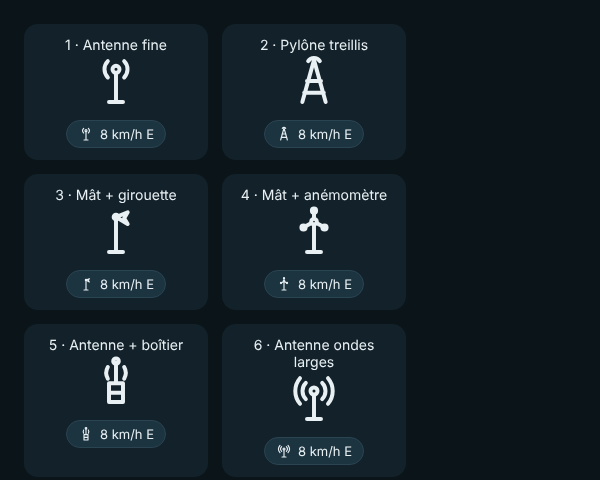
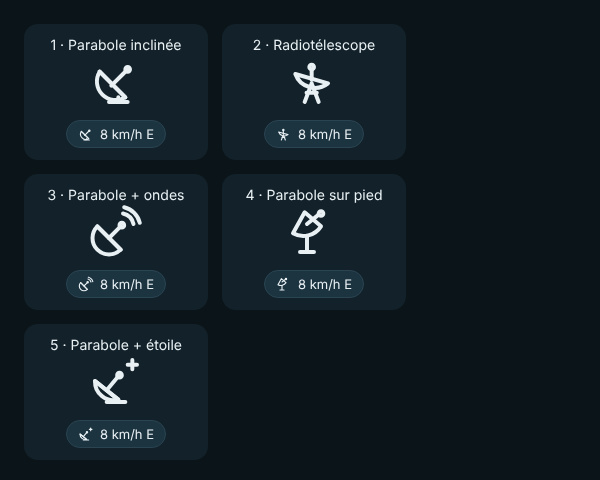
Maquette : icônes station en parabole
Claude-Session: https://claude.ai/code/session_01SmdS3QR8SGgih4tjLPucxr

diff --git a/docs/maquettes/propositions-v3/icones-station.html b/docs/maquettes/propositions-v3/icones-station.html
@@ -1,2 +1,2 @@
 <!doctype html><meta charset="utf-8"><title>Icônes station</title><style>body{background:#0b1519;color:#e8f0f3;font:14px system-ui;display:flex;flex-wrap:wrap;gap:14px;padding:16px;width:560px}
-.c{background:#13222a;border-radius:14px;padding:12px;width:160px;text-align:center}.pill{display:inline-flex;gap:6px;align-items:center;background:#1c3340;border:1px solid #2a4452;border-radius:99px;padding:5px 11px;font-size:13px;margin-top:8px}</style><div class="c"><div>1 · Antenne fine</div><svg width="56" height="56" viewBox="0 0 24 24" fill="none" stroke="currentColor" stroke-width="1.7" stroke-linecap="round" stroke-linejoin="round"><path d="M12 9v12M9 21h6"/><circle cx="12" cy="7" r="1.5"/><path d="M8.500 3.500a5 5 0 0 0 0 7M15.500 3.500a5 5 0 0 1 0 7"/></svg><br><span class="pill"><svg width="16" height="16" viewBox="0 0 24 24" fill="none" stroke="currentColor" stroke-width="1.7" stroke-linecap="round" stroke-linejoin="round"><path d="M12 9v12M9 21h6"/><circle cx="12" cy="7" r="1.5"/><path d="M8.500 3.500a5 5 0 0 0 0 7M15.500 3.500a5 5 0 0 1 0 7"/></svg>8 km/h E</span></div><div class="c"><div>2 · Pylône treillis</div><svg width="56" height="56" viewBox="0 0 24 24" fill="none" stroke="currentColor" stroke-width="1.7" stroke-linecap="round" stroke-linejoin="round"><path d="M12 3l-5 18M12 3l5 18M9 12h6M7.800 17h8.400M12 3v-0"/><path d="M9.500 3.500a3 3 0 0 1 5 0"/></svg><br><span class="pill"><svg width="16" height="16" viewBox="0 0 24 24" fill="none" stroke="currentColor" stroke-width="1.7" stroke-linecap="round" stroke-linejoin="round"><path d="M12 3l-5 18M12 3l5 18M9 12h6M7.800 17h8.400M12 3v-0"/><path d="M9.500 3.500a3 3 0 0 1 5 0"/></svg>8 km/h E</span></div><div class="c"><div>3 · Mât + girouette</div><svg width="56" height="56" viewBox="0 0 24 24" fill="none" stroke="currentColor" stroke-width="1.7" stroke-linecap="round" stroke-linejoin="round"><path d="M12 21V6M9 21h6"/><path d="M12 6l5-2-1.500 2.500L17 9z"/><circle cx="12" cy="6" r="1"/></svg><br><span class="pill"><svg width="16" height="16" viewBox="0 0 24 24" fill="none" stroke="currentColor" stroke-width="1.7" stroke-linecap="round" stroke-linejoin="round"><path d="M12 21V6M9 21h6"/><path d="M12 6l5-2-1.500 2.500L17 9z"/><circle cx="12" cy="6" r="1"/></svg>8 km/h E</span></div><div class="c"><div>4 · Mât + anémomètre</div><svg width="56" height="56" viewBox="0 0 24 24" fill="none" stroke="currentColor" stroke-width="1.7" stroke-linecap="round" stroke-linejoin="round"><path d="M12 21V10M9 21h6"/><circle cx="12" cy="8" r="1.200"/><path d="M12 6.800V4M10.900 8.600L8.400 10M13.100 8.600l2.500 1.400"/><circle cx="12" cy="3.300" r=".9"/><circle cx="7.500" cy="10.500" r=".9"/><circle cx="16.500" cy="10.500" r=".9"/></svg><br><span class="pill"><svg width="16" height="16" viewBox="0 0 24 24" fill="none" stroke="currentColor" stroke-width="1.7" stroke-linecap="round" stroke-linejoin="round"><path d="M12 21V10M9 21h6"/><circle cx="12" cy="8" r="1.200"/><path d="M12 6.800V4M10.900 8.600L8.400 10M13.100 8.600l2.500 1.400"/><circle cx="12" cy="3.300" r=".9"/><circle cx="7.500" cy="10.500" r=".9"/><circle cx="16.500" cy="10.500" r=".9"/></svg>8 km/h E</span></div><div class="c"><div>5 · Antenne + boîtier</div><svg width="56" height="56" viewBox="0 0 24 24" fill="none" stroke="currentColor" stroke-width="1.7" stroke-linecap="round" stroke-linejoin="round"><path d="M12 4v9M9 21V13h6v8zM9 17h6"/><circle cx="12" cy="3.500" r="1.200"/><path d="M8.500 6a5 5 0 0 0 0 5M15.500 6a5 5 0 0 1 0 5"/></svg><br><span class="pill"><svg width="16" height="16" viewBox="0 0 24 24" fill="none" stroke="currentColor" stroke-width="1.7" stroke-linecap="round" stroke-linejoin="round"><path d="M12 4v9M9 21V13h6v8zM9 17h6"/><circle cx="12" cy="3.500" r="1.200"/><path d="M8.500 6a5 5 0 0 0 0 5M15.500 6a5 5 0 0 1 0 5"/></svg>8 km/h E</span></div><div class="c"><div>6 · Antenne ondes larges</div><svg width="56" height="56" viewBox="0 0 24 24" fill="none" stroke="currentColor" stroke-width="1.7" stroke-linecap="round" stroke-linejoin="round"><path d="M12 11v10M9 21h6"/><circle cx="12" cy="9" r="1.500"/><path d="M8.500 5.500a5 5 0 0 0 0 7M15.500 5.500a5 5 0 0 1 0 7M6 3.500a8.500 8.500 0 0 0 0 11M18 3.500a8.500 8.500 0 0 1 0 11"/></svg><br><span class="pill"><svg width="16" height="16" viewBox="0 0 24 24" fill="none" stroke="currentColor" stroke-width="1.7" stroke-linecap="round" stroke-linejoin="round"><path d="M12 11v10M9 21h6"/><circle cx="12" cy="9" r="1.500"/><path d="M8.500 5.500a5 5 0 0 0 0 7M15.500 5.500a5 5 0 0 1 0 7M6 3.500a8.500 8.500 0 0 0 0 11M18 3.500a8.500 8.500 0 0 1 0 11"/></svg>8 km/h E</span></div>
+.c{background:#13222a;border-radius:14px;padding:12px;width:160px;text-align:center}.pill{display:inline-flex;gap:6px;align-items:center;background:#1c3340;border:1px solid #2a4452;border-radius:99px;padding:5px 11px;font-size:13px;margin-top:8px}</style><div class="c"><div>1 · Parabole inclinée</div><svg width="56" height="56" viewBox="0 0 24 24" fill="none" stroke="currentColor" stroke-width="1.7" stroke-linecap="round" stroke-linejoin="round"><path d="M5 8a8 8 0 0 0 11 11z"/><path d="M5 8l11 11"/><path d="M10 14l5-5M15 9l1.500-1.500"/><circle cx="17" cy="7" r="1"/><path d="M9 21h8M13 19v2"/></svg><br><span class="pill"><svg width="16" height="16" viewBox="0 0 24 24" fill="none" stroke="currentColor" stroke-width="1.7" stroke-linecap="round" stroke-linejoin="round"><path d="M5 8a8 8 0 0 0 11 11z"/><path d="M5 8l11 11"/><path d="M10 14l5-5M15 9l1.500-1.500"/><circle cx="17" cy="7" r="1"/><path d="M9 21h8M13 19v2"/></svg>8 km/h E</span></div><div class="c"><div>2 · Radiotélescope</div><svg width="56" height="56" viewBox="0 0 24 24" fill="none" stroke="currentColor" stroke-width="1.7" stroke-linecap="round" stroke-linejoin="round"><path d="M4 9a9 9 0 0 0 14 4z"/><path d="M11 11.500V7"/><circle cx="11" cy="6" r="1"/><path d="M11 13l-3 8M11 13l3 8M8.800 17h4.400"/></svg><br><span class="pill"><svg width="16" height="16" viewBox="0 0 24 24" fill="none" stroke="currentColor" stroke-width="1.7" stroke-linecap="round" stroke-linejoin="round"><path d="M4 9a9 9 0 0 0 14 4z"/><path d="M11 11.500V7"/><circle cx="11" cy="6" r="1"/><path d="M11 13l-3 8M11 13l3 8M8.800 17h4.400"/></svg>8 km/h E</span></div><div class="c"><div>3 · Parabole + ondes</div><svg width="56" height="56" viewBox="0 0 24 24" fill="none" stroke="currentColor" stroke-width="1.7" stroke-linecap="round" stroke-linejoin="round"><path d="M4 10a7 7 0 0 0 10 10z"/><path d="M4 10l10 10"/><path d="M9 15l5-5"/><circle cx="14.500" cy="9.500" r="1"/><path d="M15 4.500a6 6 0 0 1 4.500 4.500M15.500 1.800A9 9 0 0 1 22.200 8.500"/></svg><br><span class="pill"><svg width="16" height="16" viewBox="0 0 24 24" fill="none" stroke="currentColor" stroke-width="1.7" stroke-linecap="round" stroke-linejoin="round"><path d="M4 10a7 7 0 0 0 10 10z"/><path d="M4 10l10 10"/><path d="M9 15l5-5"/><circle cx="14.500" cy="9.500" r="1"/><path d="M15 4.500a6 6 0 0 1 4.500 4.500M15.500 1.800A9 9 0 0 1 22.200 8.500"/></svg>8 km/h E</span></div><div class="c"><div>4 · Parabole sur pied</div><svg width="56" height="56" viewBox="0 0 24 24" fill="none" stroke="currentColor" stroke-width="1.7" stroke-linecap="round" stroke-linejoin="round"><path d="M3 13a9 9 0 0 0 12-3L8 4z" transform="rotate(0)"/><path d="M9 9l5-4"/><circle cx="15" cy="4.500" r="1"/><path d="M9 14v7M6 21h6"/></svg><br><span class="pill"><svg width="16" height="16" viewBox="0 0 24 24" fill="none" stroke="currentColor" stroke-width="1.7" stroke-linecap="round" stroke-linejoin="round"><path d="M3 13a9 9 0 0 0 12-3L8 4z" transform="rotate(0)"/><path d="M9 9l5-4"/><circle cx="15" cy="4.500" r="1"/><path d="M9 14v7M6 21h6"/></svg>8 km/h E</span></div><div class="c"><div>5 · Parabole + étoile</div><svg width="56" height="56" viewBox="0 0 24 24" fill="none" stroke="currentColor" stroke-width="1.7" stroke-linecap="round" stroke-linejoin="round"><path d="M3 12a8 8 0 0 0 10 8z"/><path d="M3 12l10 8"/><path d="M8 16l5-6"/><circle cx="13.500" cy="9.500" r="1"/><path d="M19 3v4M17 5h4"/><path d="M8 21h8"/></svg><br><span class="pill"><svg width="16" height="16" viewBox="0 0 24 24" fill="none" stroke="currentColor" stroke-width="1.7" stroke-linecap="round" stroke-linejoin="round"><path d="M3 12a8 8 0 0 0 10 8z"/><path d="M3 12l10 8"/><path d="M8 16l5-6"/><circle cx="13.500" cy="9.500" r="1"/><path d="M19 3v4M17 5h4"/><path d="M8 21h8"/></svg>8 km/h E</span></div>
